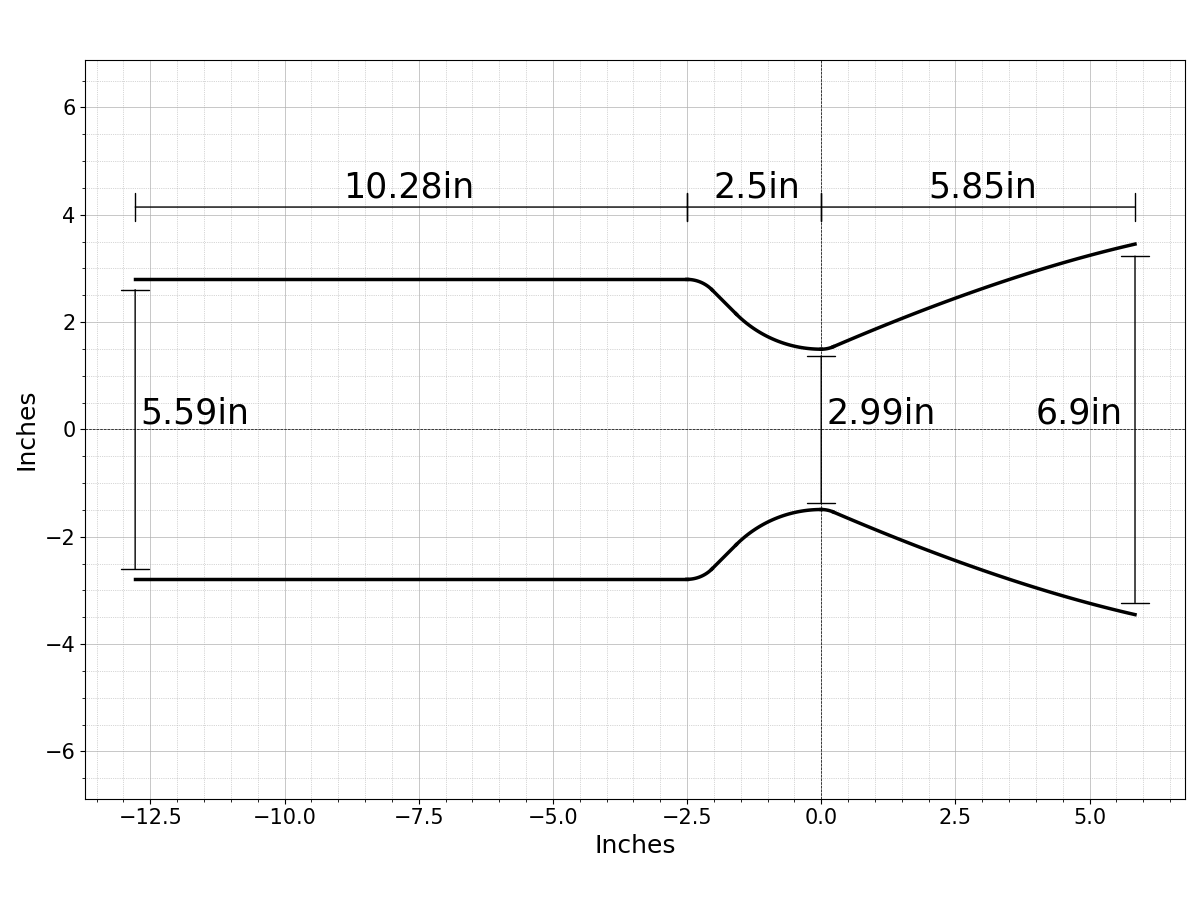
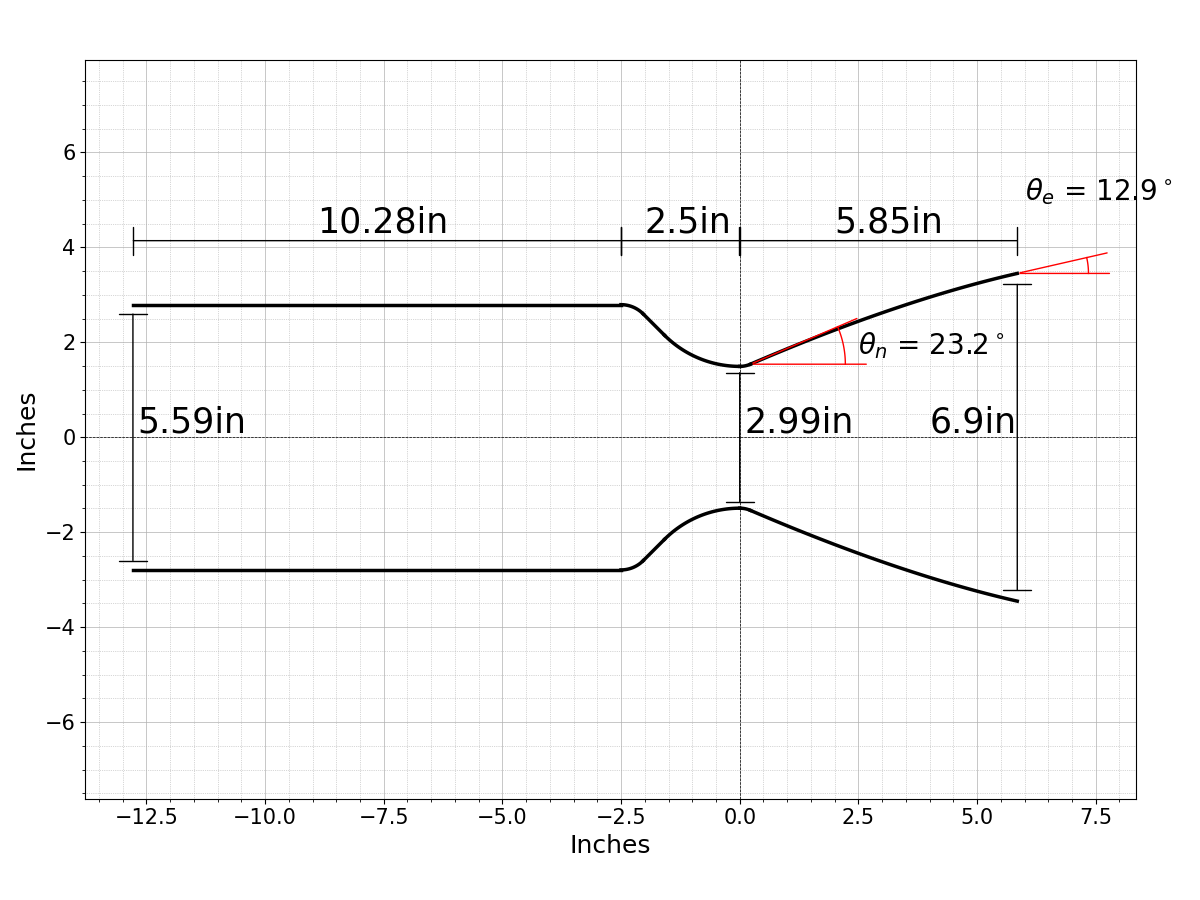
adding angles to plot

diff --git a/TCA/TCA Sizing Code Files/Final_Contouring_Script.py b/TCA/TCA Sizing Code Files/Final_Contouring_Script.py
@@ -380,7 +380,9 @@ def plot_nozzle(ax, title, Rt, angles, contour):
 	return
 
 # nozzle contour plot
-def plot_nozzle_inches(contour, dia_t, dia_c, dia_e, len_c):
+def plot_nozzle_inches(contour, angles, dia_t, dia_c, dia_e, len_c):
+	# wall angles
+	theta_n = angles[1]; theta_e = angles[2];
 
 	# contour values
 	xe = np.divide(contour[0], 25.4); ye = np.divide(contour[1], 25.4); nye = np.divide(contour[2], 25.4);
@@ -455,6 +457,36 @@ def plot_nozzle_inches(contour, dia_t, dia_c, dia_e, len_c):
 	# draw dimension from [0,0] to [xe[-1], ye[-1]]
 	plt.annotate( "", [-0.05, 1.2 * ybell[-1]], [(xbell[-1] + 0.05), 1.2 * ybell[-1]], arrowprops=dict(lw=1, arrowstyle='|-|') )
 	plt.text(2.0, 1.25* ybell[-1], text, fontsize=25 )
+
+	# Theta n arc functions
+	angle_list 		= np.linspace(0, theta_n, 100)
+	tnarcx = []; tnarcy = [];
+	for i in angle_list:
+		tnarcx.append( xe2[-1] + 2.0 * math.cos(i))
+		tnarcy.append( ye2[-1] + 2.0 * math.sin(i))
+
+	# theta n angle
+	text = r'$\theta_n$ = ' + str(round((theta_n * 180 / np.pi),1)) + r'$^\circ$'
+	# draw dimension from [0,0] to [xe[-1], ye[-1]]
+	plt.annotate( "", [xe2[-1], ye2[-1]], [(xe2[-1] + 2.5), ye2[-1]], arrowprops=dict(lw=1, arrowstyle='-', color = 'r' ))
+	plt.annotate( "", [xe2[-1], ye2[-1]], [(xe2[-1] + (2.5 * math.cos(theta_n))), (ye2[-1] + (2.5 * math.sin(theta_n)))], arrowprops=dict(lw=1, arrowstyle='-', color = 'r'))
+	plt.plot(tnarcx, tnarcy, linewidth=1, color='r')
+	plt.text(2.5, 1.75, text, fontsize=20 )
+
+	# Theta e arc functions
+	angle_list 		= np.linspace(0, theta_e, 100)
+	tearcx = []; tearcy = [];
+	for i in angle_list:
+		tearcx.append( xbell[-1] + 1.5 * math.cos(i))
+		tearcy.append( ybell[-1] + 1.5 * math.sin(i))
+
+	# theta e angle
+	text = r'$\theta_e$ = ' + str(round((theta_e * 180 / np.pi),1)) + r'$^\circ$'
+	# draw dimension from [0,0] to [xe[-1], ye[-1]]
+	plt.annotate( "", [xbell[-1], ybell[-1]], [(xbell[-1] + 2.0), ybell[-1]], arrowprops=dict(lw=1, arrowstyle='-', color = 'r' ))
+	plt.annotate( "", [xbell[-1], ybell[-1]], [(xbell[-1] + (2.0 * math.cos(theta_e))), (ybell[-1] + (2.0 * math.sin(theta_e)))], arrowprops=dict(lw=1, arrowstyle='-', color = 'r'))
+	plt.plot(tearcx, tearcy, linewidth=1, color='r')
+	plt.text(6, 5, text, fontsize=20 )
 
 	# axis
 	plt.axhline(color='black', lw=0.5, linestyle="dashed")
@@ -676,7 +708,7 @@ if __name__=="__main__":
 	Dc_in = tca_params['tca_chamber_diameter']
 	De_in = tca_params['tca_exit_diameter']
 	Lc_in = tca_params['tca_chamber_length']
-	plot_nozzle_inches(contour, Dt_in, Dc_in, De_in, Lc_in)
+	plot_nozzle_inches(contour, angles, Dt_in, Dc_in, De_in, Lc_in)
 
 	
 	
